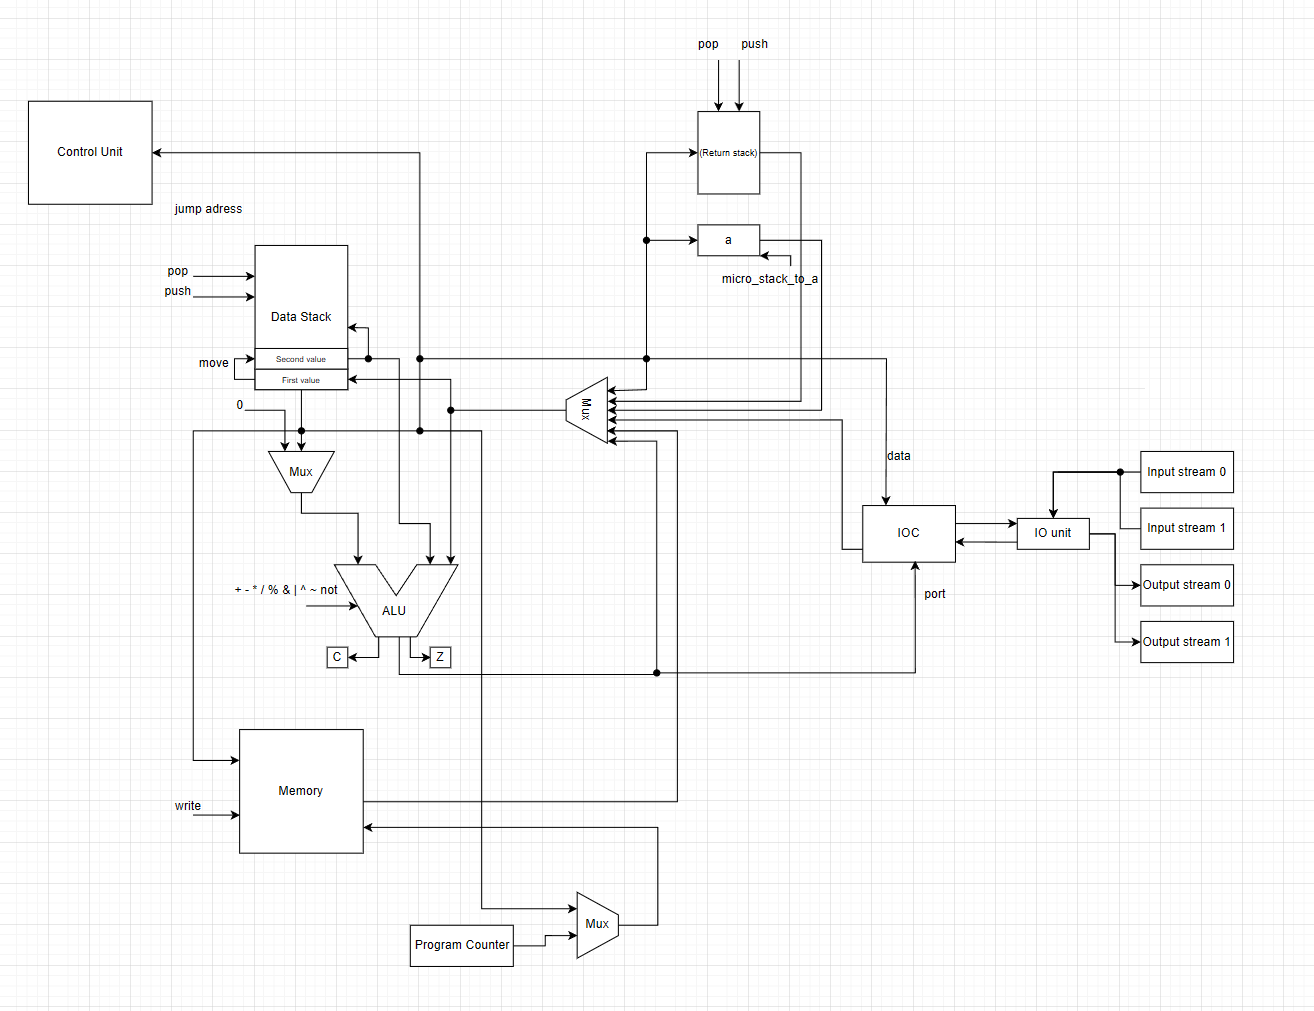
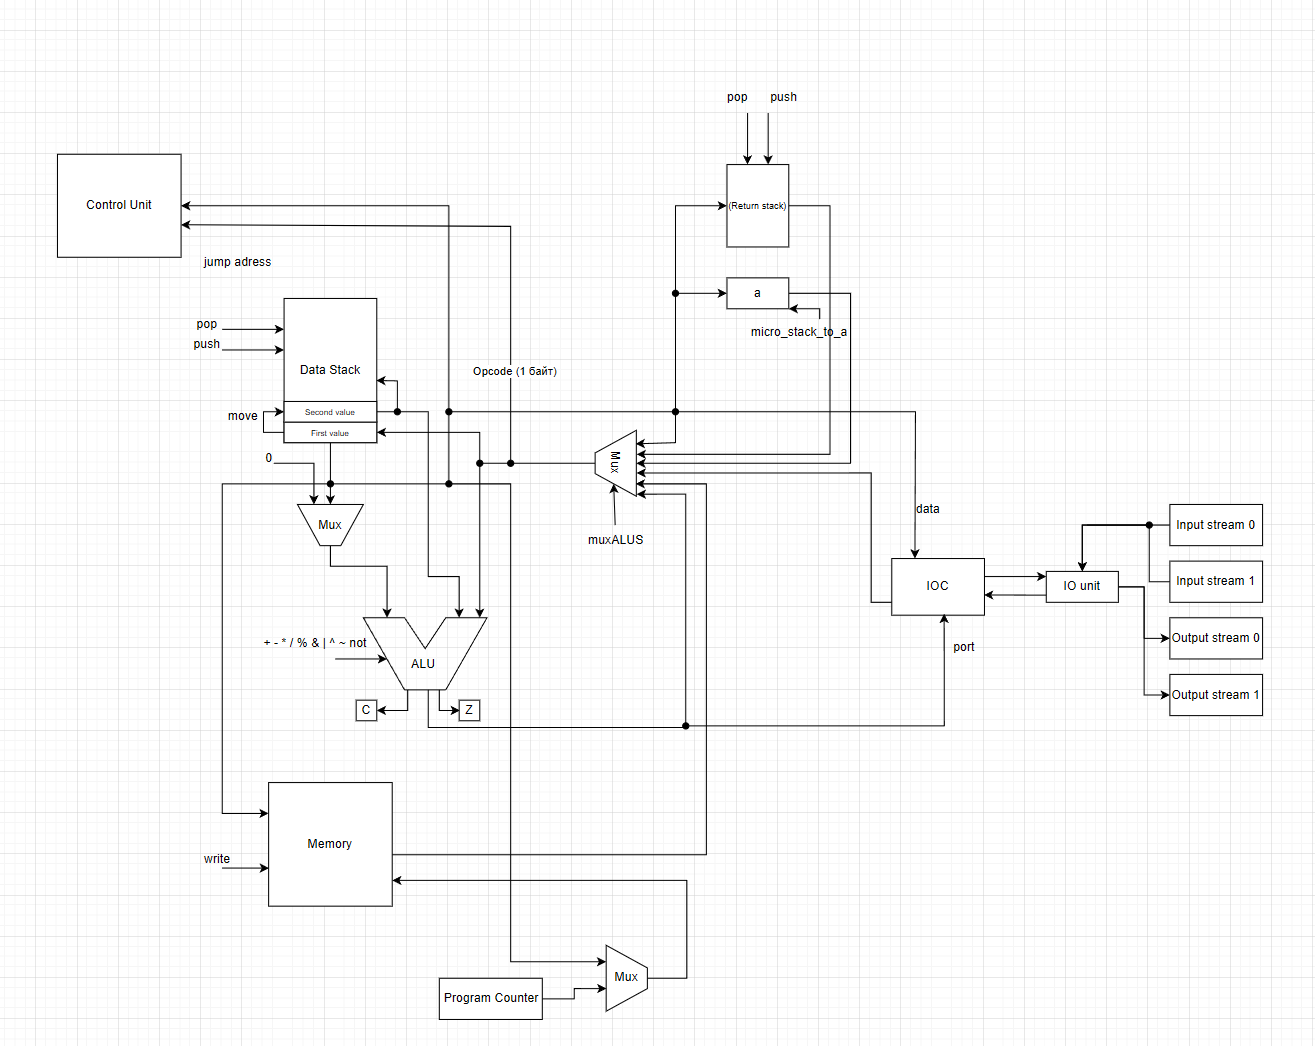
readme

diff --git a/machine.py b/machine.py
@@ -506,7 +506,7 @@ def simulation(code, code_len, input_tokens, data_memory_size, limit):
 
 # Массив микрокода
 mp = [
-    ControlUnit.micro_swap,                 # 0 swap
+    ControlUnit.micro_swap,                 # 0 swap (в памяти 0 бит)
     ControlUnit.micro_stack_2_ret_stack,    # 1
     ControlUnit.micro_stack_to_a,           # 2
     ControlUnit.micro_ret_stack_2_stack,    # 3

diff --git a/README.md b/README.md
@@ -243,7 +243,7 @@ input_stream - поток ввода
 
 
 Микропрограммы:
-Каждая микропрограмма содержит 31 сигналов, значит кодируется 31 битом или 4 байтами 
+Каждая микропрограмма содержит 39 сигналов, значит кодируется 39 битами
 ```
 1. sf - открыть защелку с первого значения стека
 2. ss - открыть защелку со второго значения стека
@@ -262,8 +262,9 @@ input_stream - поток ввода
 15 - 28. - арифметические и логические операции в алу (+ - * ... and or ...)
 29. muxPC - мультиплексор у PC
 30. muxALUS - мультиплексор у алу и стека
-31. cmd - команда 
+31 - 39. cmd - команда (тут хранится Opcode, при помощи которого LUT выбирает нужную микрокоманду)
 ```
+По 31-39 битам идет выбор начальной микроинструкции для нужной команды
 
 Описание реализации:
 
@@ -286,7 +287,7 @@ input_stream - поток ввода
 ## Схемы DataPath и ControlUnit
 Control Unit:
 
-![img.png](images/ControlUnit.png)
+![img.png](images/cu.png)
 
 Data Path:
 
@@ -331,19 +332,23 @@ end:                                    ; завершаем работу про
 
 ## Запуск golden-тестов
 ```
-(.venv) PS C:\Users\artem\PycharmProjects\csa-lab4> pytest
-===================================================================================================== test session starts =====================================================================================================
+(.venv) ~\PycharmProjects\csa-lab4 git:[main]
+pytest 
+C:\Users\artem\PycharmProjects\csa-lab4\.venv\Lib\site-packages\pytest_golden\plugin.py:53: GoldenTestUsageWarning: Add 'enable_assertion_pass_hook=true' to pytest.ini for safer usage of pytest-golden.
+  warnings.warn(
+==================================================================================================== test session starts ====================================================================================================
 platform win32 -- Python 3.11.8, pytest-8.3.5, pluggy-1.6.0
 rootdir: C:\Users\artem\PycharmProjects\csa-lab4
 configfile: pytest.ini
-plugins: golden-0.2.2
-collected 6 items                                                                                                                                                                                                              
+plugins: anyio-4.9.0, golden-0.2.2
+collected 7 items                                                                                                                                                                                                            
 
-golden_test.py ......                                                                                                                                                                                                    [100%]
+golden_test.py .......                                                                                                                                                                                                 [100%]
 
-====================================================================================================== 6 passed in 1.06s ====================================================================================================== 
+===================================================================================================== 7 passed in 1.24s =====================================================================================================```
 ```
 работа тестов на github:
+
 ```
 Run poetry run coverage run -m pytest
 /home/runner/.cache/pypoetry/virtualenvs/forth-yJKRdTo1-py3.11/lib/python3.11/site-packages/pytest_golden/plugin.py:53: GoldenTestUsageWarning: Add 'enable_assertion_pass_hook=true' to pytest.ini for safer usage of pytest-golden.
@@ -370,7 +375,7 @@ TOTAL              680     82    88%
 ```
 
 Для тестирования использовал все необходимые программы, а именно:
-1) программа вывода Hello World!
+1) программа вывода Hello World! 
 2) программа hello_user
 3) программа cat для вывода пользовательского ввода
 4) программа arifm, которая отвечает за переполнение 32-битного регистра алу и сохранения этого числа в памяти
